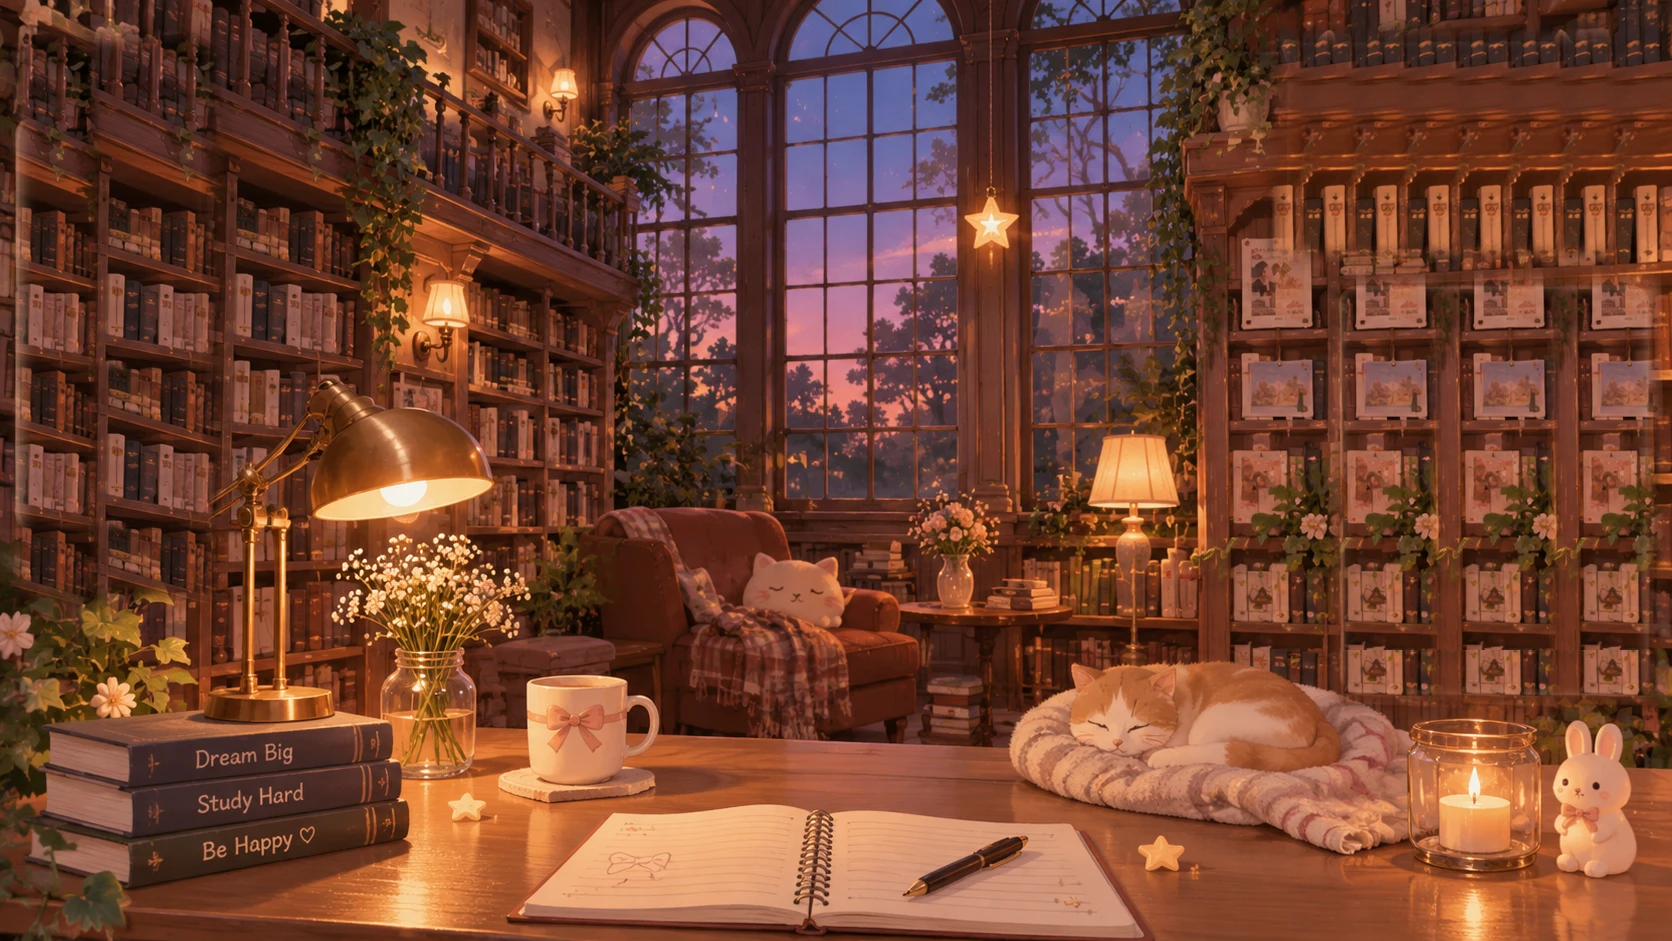
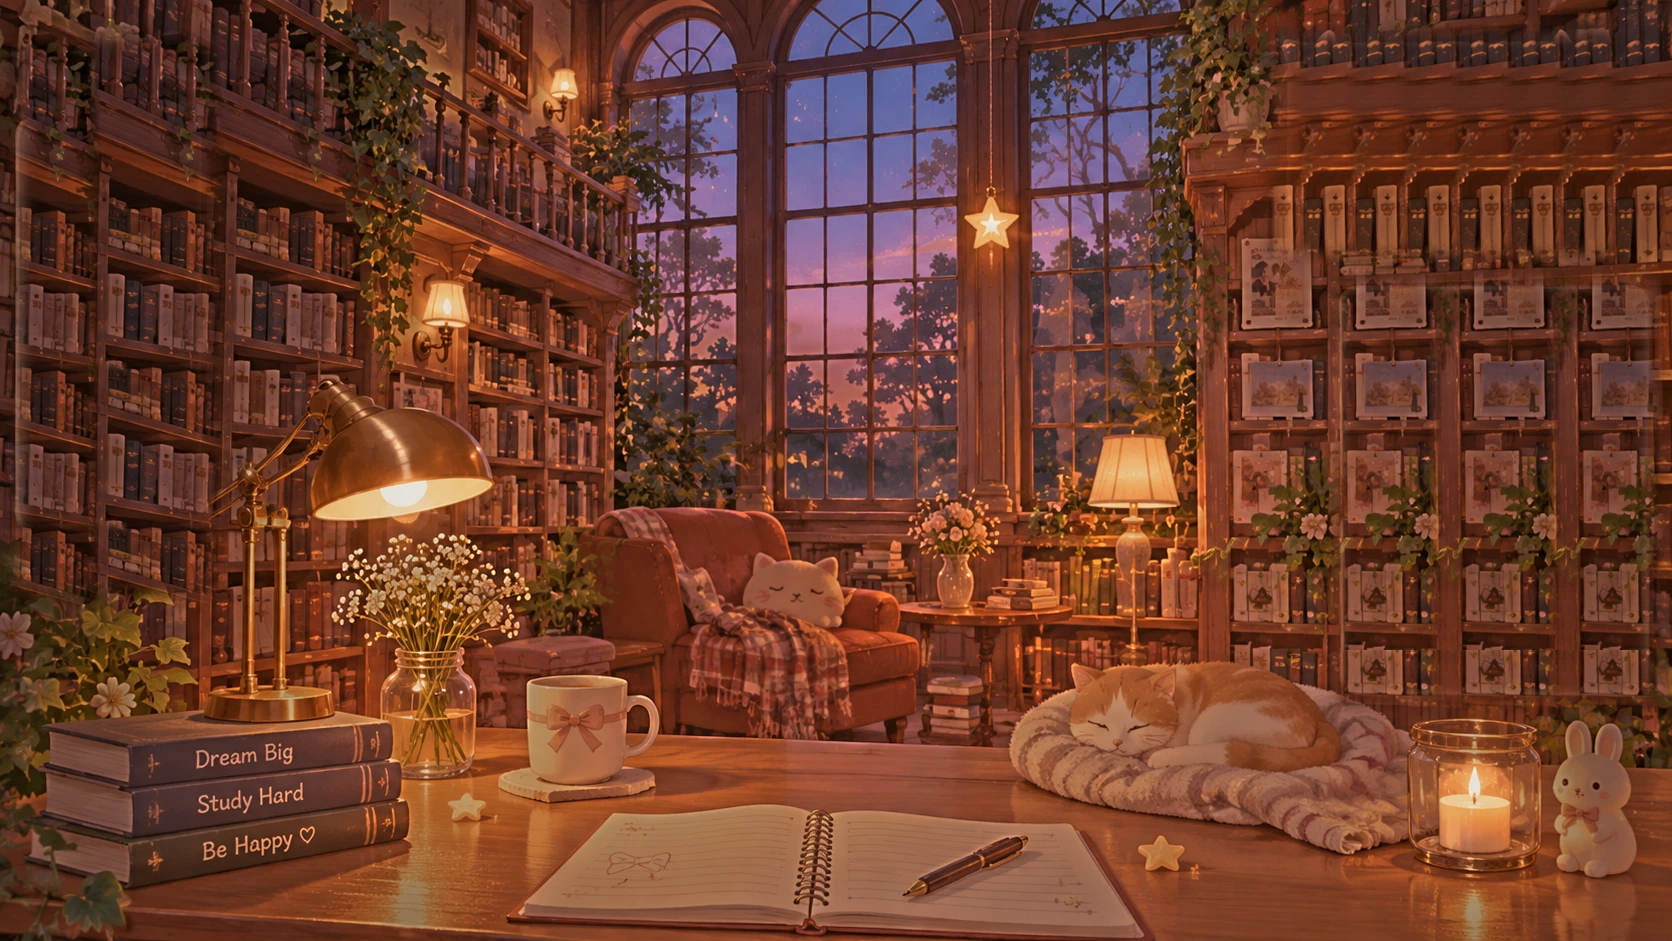
feat: relight the painting for each time of day

diff --git a/src/style.css b/src/style.css
@@ -388,14 +388,21 @@ body { background: #3A2318; }
 .art { position: absolute; left: 0; top: 0; width: 1672px; height: 941px; transform-origin: 0 0; }
 .art-img { position: absolute; inset: 0; width: 100%; height: 100%; display: block; user-select: none; -webkit-user-drag: none; pointer-events: none; }
 .sky-tint, .grade { position: absolute; inset: 0; pointer-events: none; transition: background-color 1.4s ease, opacity 1.4s ease; }
-.glow { position: absolute; border-radius: 50%; pointer-events: none; mix-blend-mode: screen; animation: glowBreathe 6s ease-in-out infinite; transition: opacity .6s ease; }
+.glow { --g: 1; opacity: var(--g); position: absolute; border-radius: 50%; pointer-events: none; mix-blend-mode: screen; animation: glowBreathe 6s ease-in-out infinite; transition: opacity .6s ease; }
 .glow-candle { animation: candleFlicker 2.8s infinite; }
 .glow-star { animation: glowBreathe 3.4s ease-in-out infinite; }
-@keyframes glowBreathe { 50% { opacity: .78; } }
-@keyframes candleFlicker { 0%, 100% { opacity: 1; transform: scale(1); } 12% { opacity: .82; transform: scale(.97); } 26% { opacity: .95; } 41% { opacity: .76; transform: scale(1.03); } 58% { opacity: .98; } 73% { opacity: .85; transform: scale(.98); } }
+@keyframes glowBreathe { 50% { opacity: calc(var(--g) * .8); } }
+.painted[data-tod="morning"] .glow { --g: .45; }
+.painted[data-tod="day"] .glow { --g: .2; }
+.painted[data-tod="golden"] .glow { --g: .8; }
+.painted[data-tod="night"] .glow { --g: 1; }
+@keyframes candleFlicker { 0%, 100% { opacity: var(--g); transform: scale(1); } 12% { opacity: calc(var(--g) * .82); transform: scale(.97); } 26% { opacity: calc(var(--g) * .95); } 41% { opacity: calc(var(--g) * .76); transform: scale(1.03); } 58% { opacity: calc(var(--g) * .98); } 73% { opacity: calc(var(--g) * .85); transform: scale(.98); } }
 .lamp-shade { position: absolute; left: 0; top: 280px; width: 1060px; height: 661px; pointer-events: none; opacity: 0; transition: opacity .6s ease; mix-blend-mode: multiply; background: radial-gradient(60% 55% at 38% 40%, rgba(40,22,40,.5), rgba(40,22,40,.22) 60%, transparent 85%); }
-.lamp-off .glow-lamp { opacity: 0; }
+.lamp-off .glow-lamp { opacity: 0; animation: none; }
 .lamp-off .lamp-shade { opacity: 1; }
+.painted[data-tod="day"].lamp-off .lamp-shade { opacity: .2; }
+.painted[data-tod="morning"].lamp-off .lamp-shade { opacity: .35; }
+.painted[data-tod="golden"].lamp-off .lamp-shade { opacity: .7; }
 .candle-off .glow-candle { opacity: 0; animation: none; }
 .candle-off .hs-candle::before { content: ""; position: absolute; left: 50%; top: 40%; width: 46px; height: 64px; transform: translate(-50%, -50%); border-radius: 50%; background: radial-gradient(closest-side, rgba(120,90,70,.75), rgba(150,115,90,.35) 60%, transparent); filter: blur(4px); }
 .steam i { position: absolute; left: 578px; top: 612px; width: 30px; height: 70px; border-radius: 50%; background: radial-gradient(ellipse at 50% 60%, rgba(255,250,240,.45), rgba(255,250,240,0) 70%); filter: blur(7px); opacity: 0; animation: steamUp 4.2s ease-in infinite; }

diff --git a/src/painted.js b/src/painted.js
@@ -1,4 +1,4 @@
-// The painted library: the illustrated scene with living light (lamp, candle, sconces, star), clear glass with an optional fine rain,
+// The painted library: the illustrated scene with living light (lamp, candle, sconces, star, relit per time of day), clear glass with an optional fine rain,
 // drifting dust, steam from the mug, a time-of-day grade, handwriting on the open notebook, and clickable objects.
 // It exposes the same small API as the 3D room, so the rest of the app does not care which scene is showing.
 
@@ -18,13 +18,13 @@ var HOTSPOTS = [
   { id: 'shelf', label: 'Your study shelf', r: [1192, 160, 140, 520] }
 ];
 // lights in the painting
-var LIGHTS = {
-  lamp: { x: 405, y: 494, r: 300, c: '255,196,120', a: .55 },
-  candle: { x: 1475, y: 792, r: 120, c: '255,180,100', a: .6 },
-  sconceL: { x: 445, y: 300, r: 90, c: '255,200,130', a: .35 },
-  sconceT: { x: 563, y: 86, r: 70, c: '255,200,130', a: .3 },
-  floor: { x: 1134, y: 468, r: 150, c: '255,205,140', a: .35 },
-  star: { x: 990, y: 225, r: 60, c: '255,226,160', a: .5 }
+var LIGHTS = {                                              // small accents only: the light itself is in the painting's relight
+  lamp: { x: 405, y: 494, r: 150, c: '255,205,150', a: .16 },
+  candle: { x: 1475, y: 792, r: 70, c: '255,190,120', a: .24 },
+  sconceL: { x: 445, y: 300, r: 48, c: '255,210,160', a: .12 },
+  sconceT: { x: 563, y: 86, r: 38, c: '255,210,160', a: .10 },
+  floor: { x: 1134, y: 468, r: 82, c: '255,212,165', a: .12 },
+  star: { x: 990, y: 225, r: 36, c: '255,230,185', a: .16 }
 };
 var WINDOW = 'polygon(37.8% 4%, 41% 1.5%, 46.6% 0%, 52% 0%, 58% 1%, 61.4% 3%, 70.6% 3.5%, 70.6% 52.82%, 37.8% 52.82%)';                   // down to the top of the lower window frame (y = 497)
 
